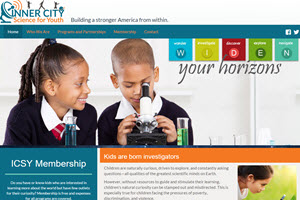
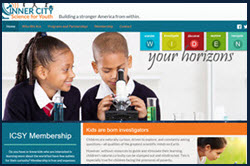
Added ICSY Web to portfolio

diff --git a/index.html b/index.html
@@ -16,22 +16,22 @@
 </head>
 <body>
   <div id="main">
-    <div id="header" class="center-content clear-fix">
+    <div id="header" class="center-content">
       <ul id="topContacts" class="flex-box"></ul>
     </div>
     <div style="clear: both;"></div>
     <div id="projects">
       <h2>Featured Projects</h2>
-      <div id="project-container" class="flex-box"></div>
+      <div id="project-container" class="inline-flex"></div>
     </div>
     <div id="workExperience" class="pale-yellow">
       <h2>Relevant Work Experience</h2>
-      <div id="work-container" class="flex-box"></div>
+      <div id="work-container" class="inline-flex"></div>
     </div>
     <div id="education" class="gray">
       <h2>Education</h2>
       <div id="education-wrapper" class="eqWrap"></div>
-      <div id="online-container" class="flex-box"></div>
+      <div id="online-container" class="inline-flex"></div>
     </div>
     <div id="mapDiv">
       <h2>Where I've Worked</h2>

diff --git a/js/resumeBuilder.js b/js/resumeBuilder.js
@@ -160,15 +160,15 @@ var projects = {
 			"image" : "images/resumeimage.jpg",
 			"link" : "http://chiqua25.github.io/resume",
 			"alt" : "resume image"
-		}/*,
-		{
-			"title" : "Arcade Game",
-			"dates" : "September 2015",
-			"description" : "Clone of the classic game, Frogger",
-			"image" : "images/gameimage.jpg",
-			"link" : "http://chiqua25.github.io/gamify",
-			"alt" : "classic game image"
 		},
+		{
+			"title" : "ICSY Website",
+			"dates" : "work in progress",
+			"description" : "Non-profit website",
+			"image" : "images/ICSY_Website.jpg",
+			"link" : "http://icsy.gear.host",
+			"alt" : "ICSY web"
+		}/*,
 		{
 			"title" : "Website Optimization",
 			"dates" : "September 2015",
